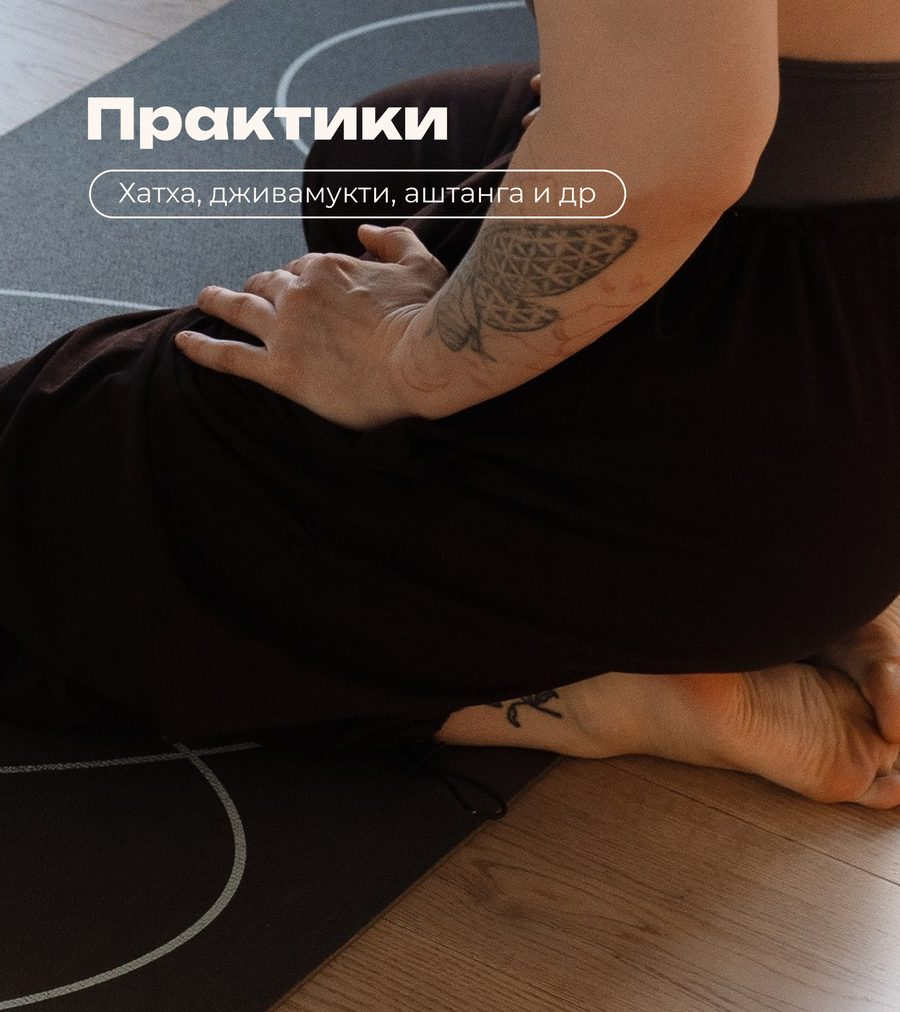
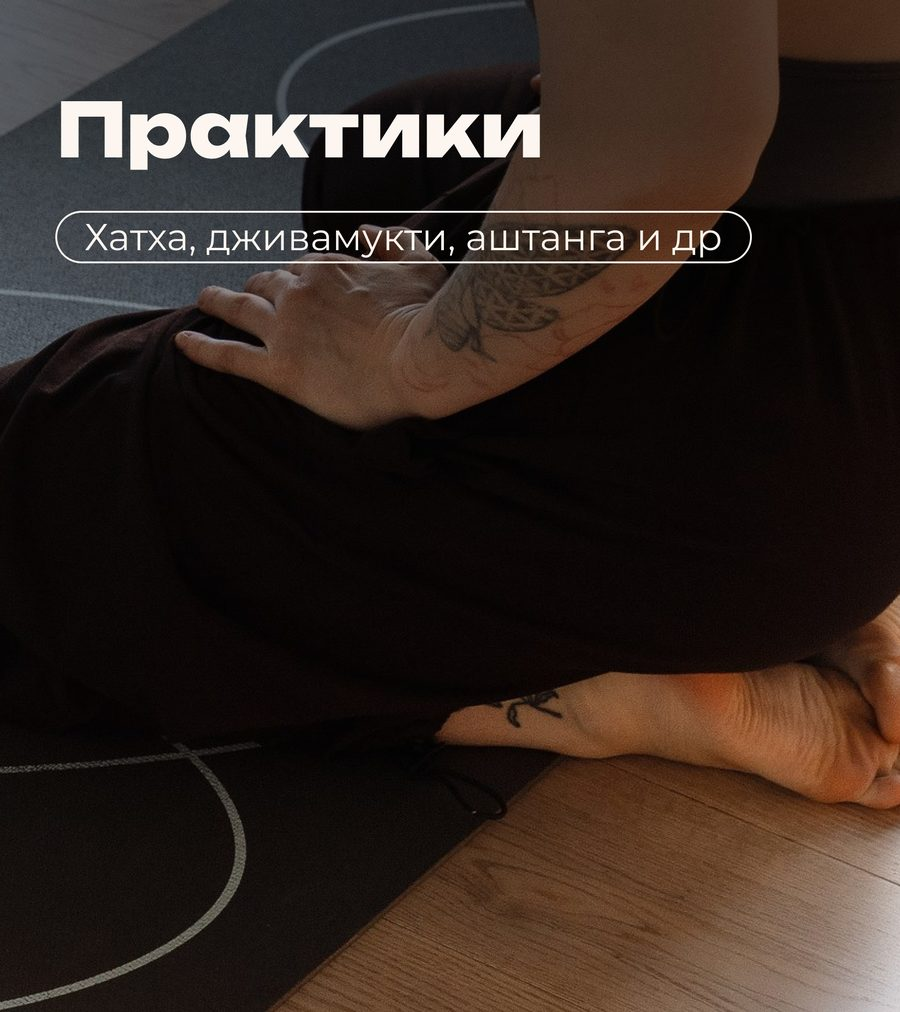
Add files via upload

Changed region(s): [[0.0, 0.0, 1.0, 0.3982]]

diff --git a/dashboard.html b/dashboard.html
@@ -92,7 +92,7 @@
     transition: transform .15s ease;
   }
   .about-banner:active{ transform:scale(0.985); }
-  .about-banner h3{ color:#fff; font-size:clamp(1.15rem,1.8vw,1.5rem); }
+  .about-banner h3{ color:#fff; font-size:80px; }
   .about-banner .sub{
     color:#fff; opacity:.85; font-weight:500;
     font-size:clamp(.88rem,1.2vw,1.05rem); line-height:1.5; max-width:60ch;
